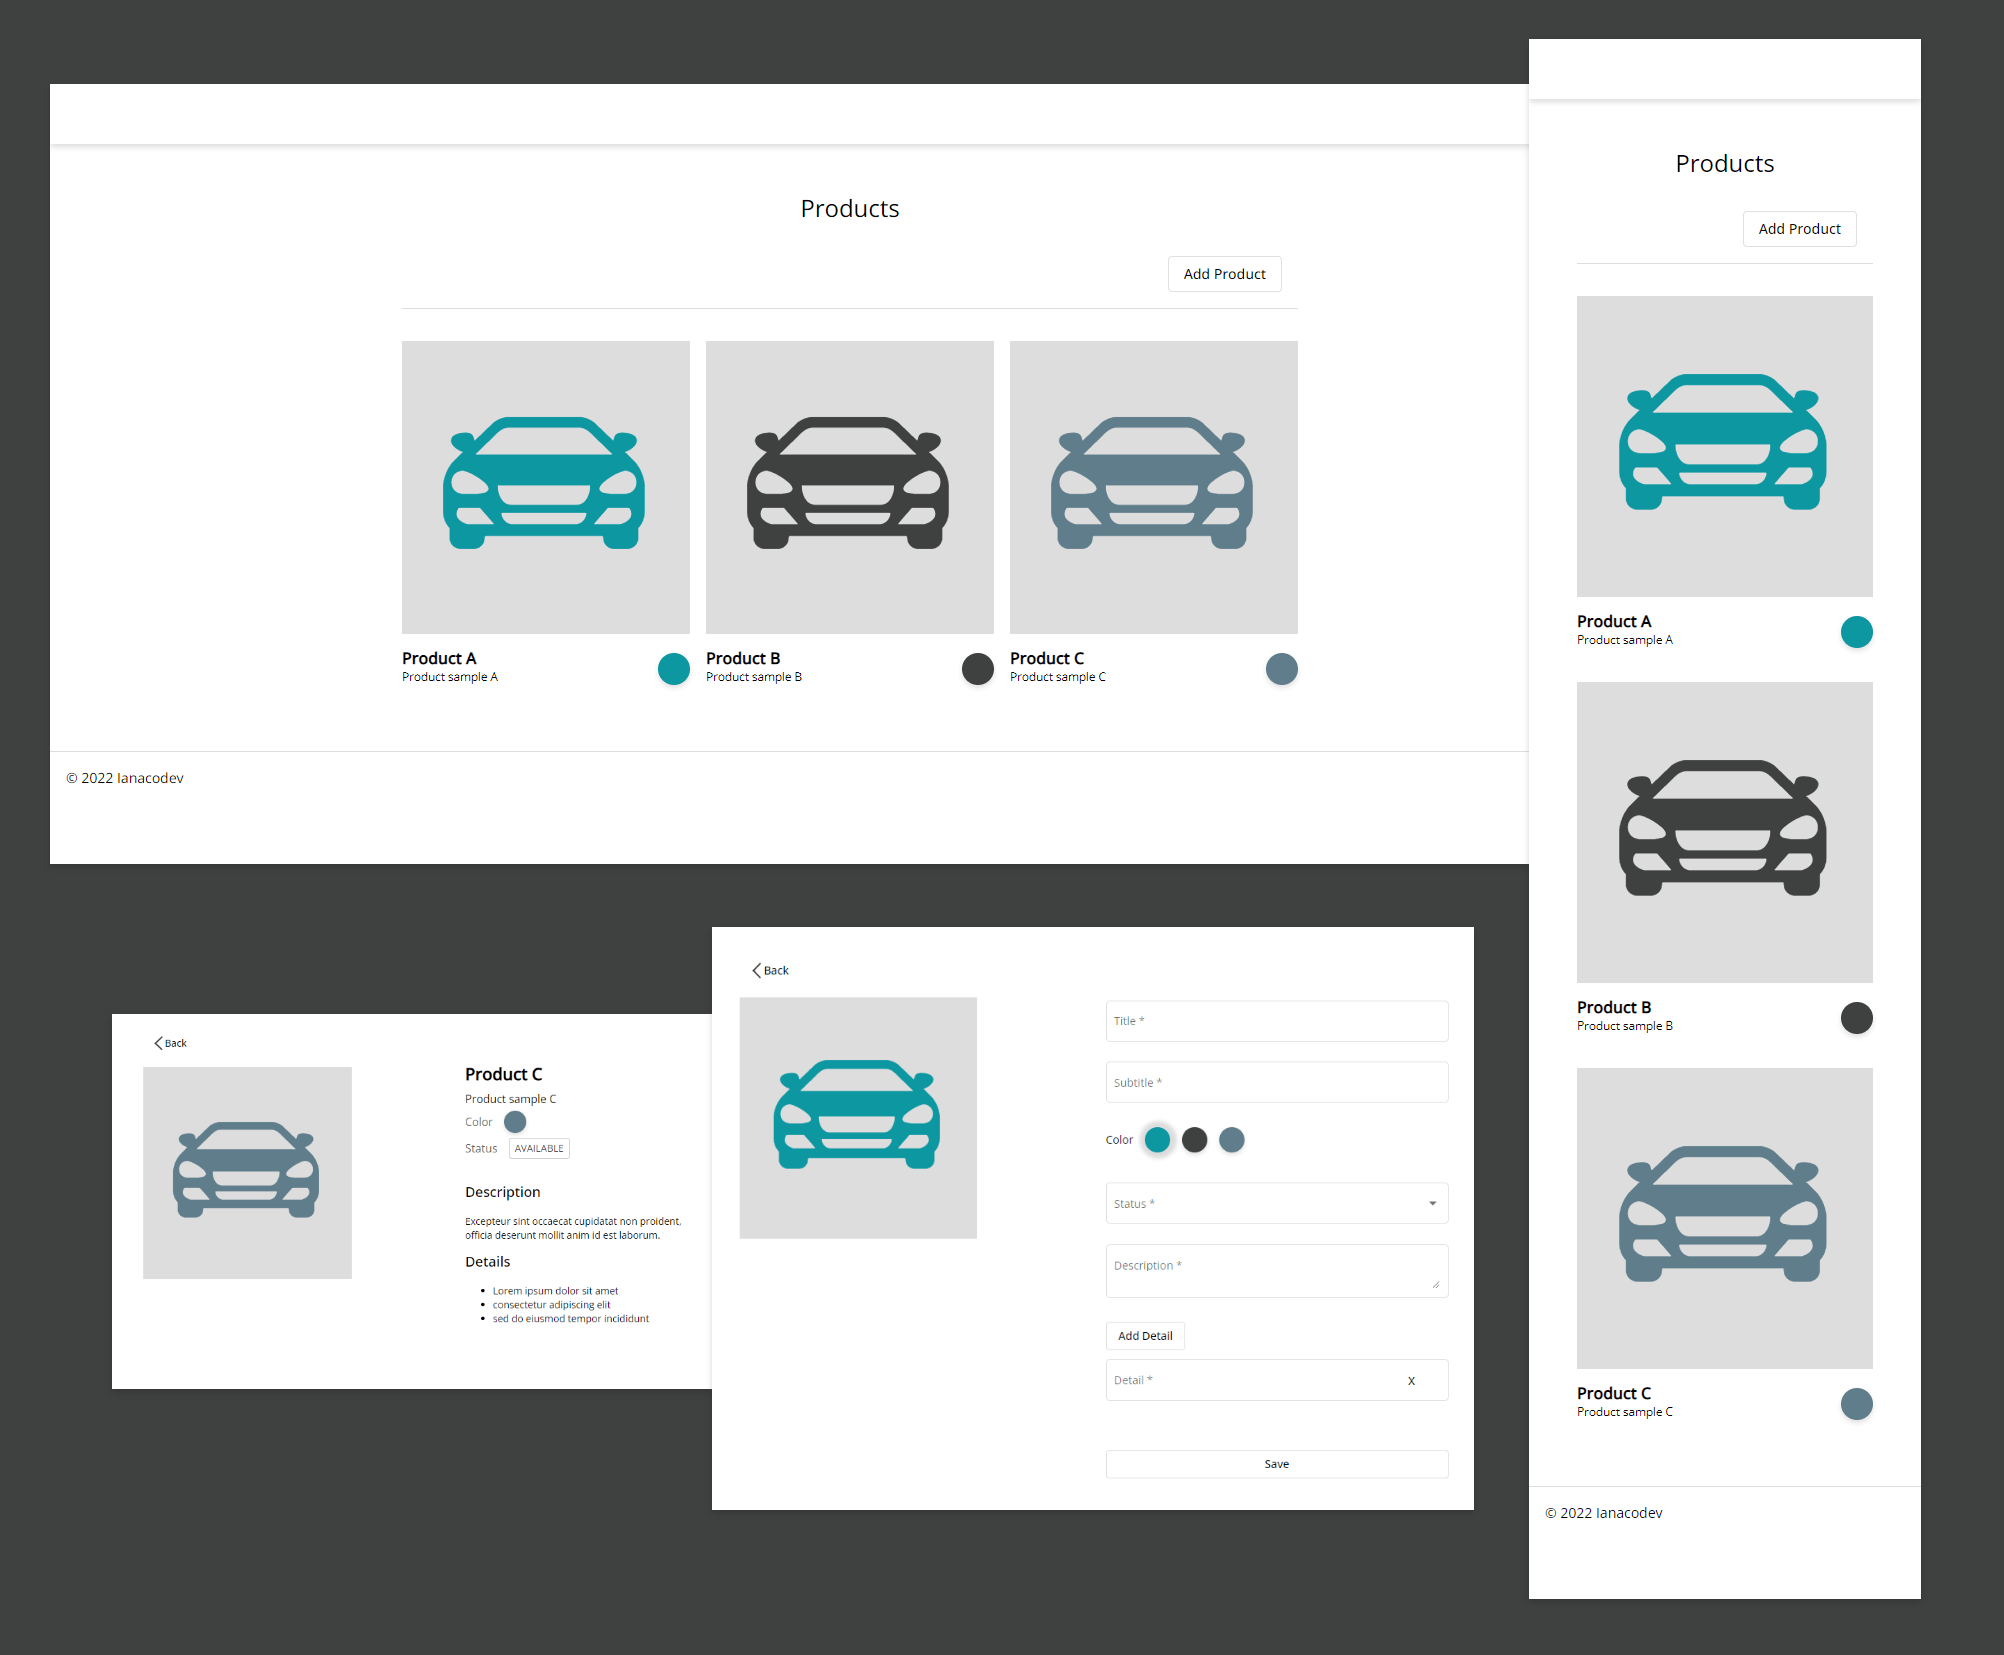
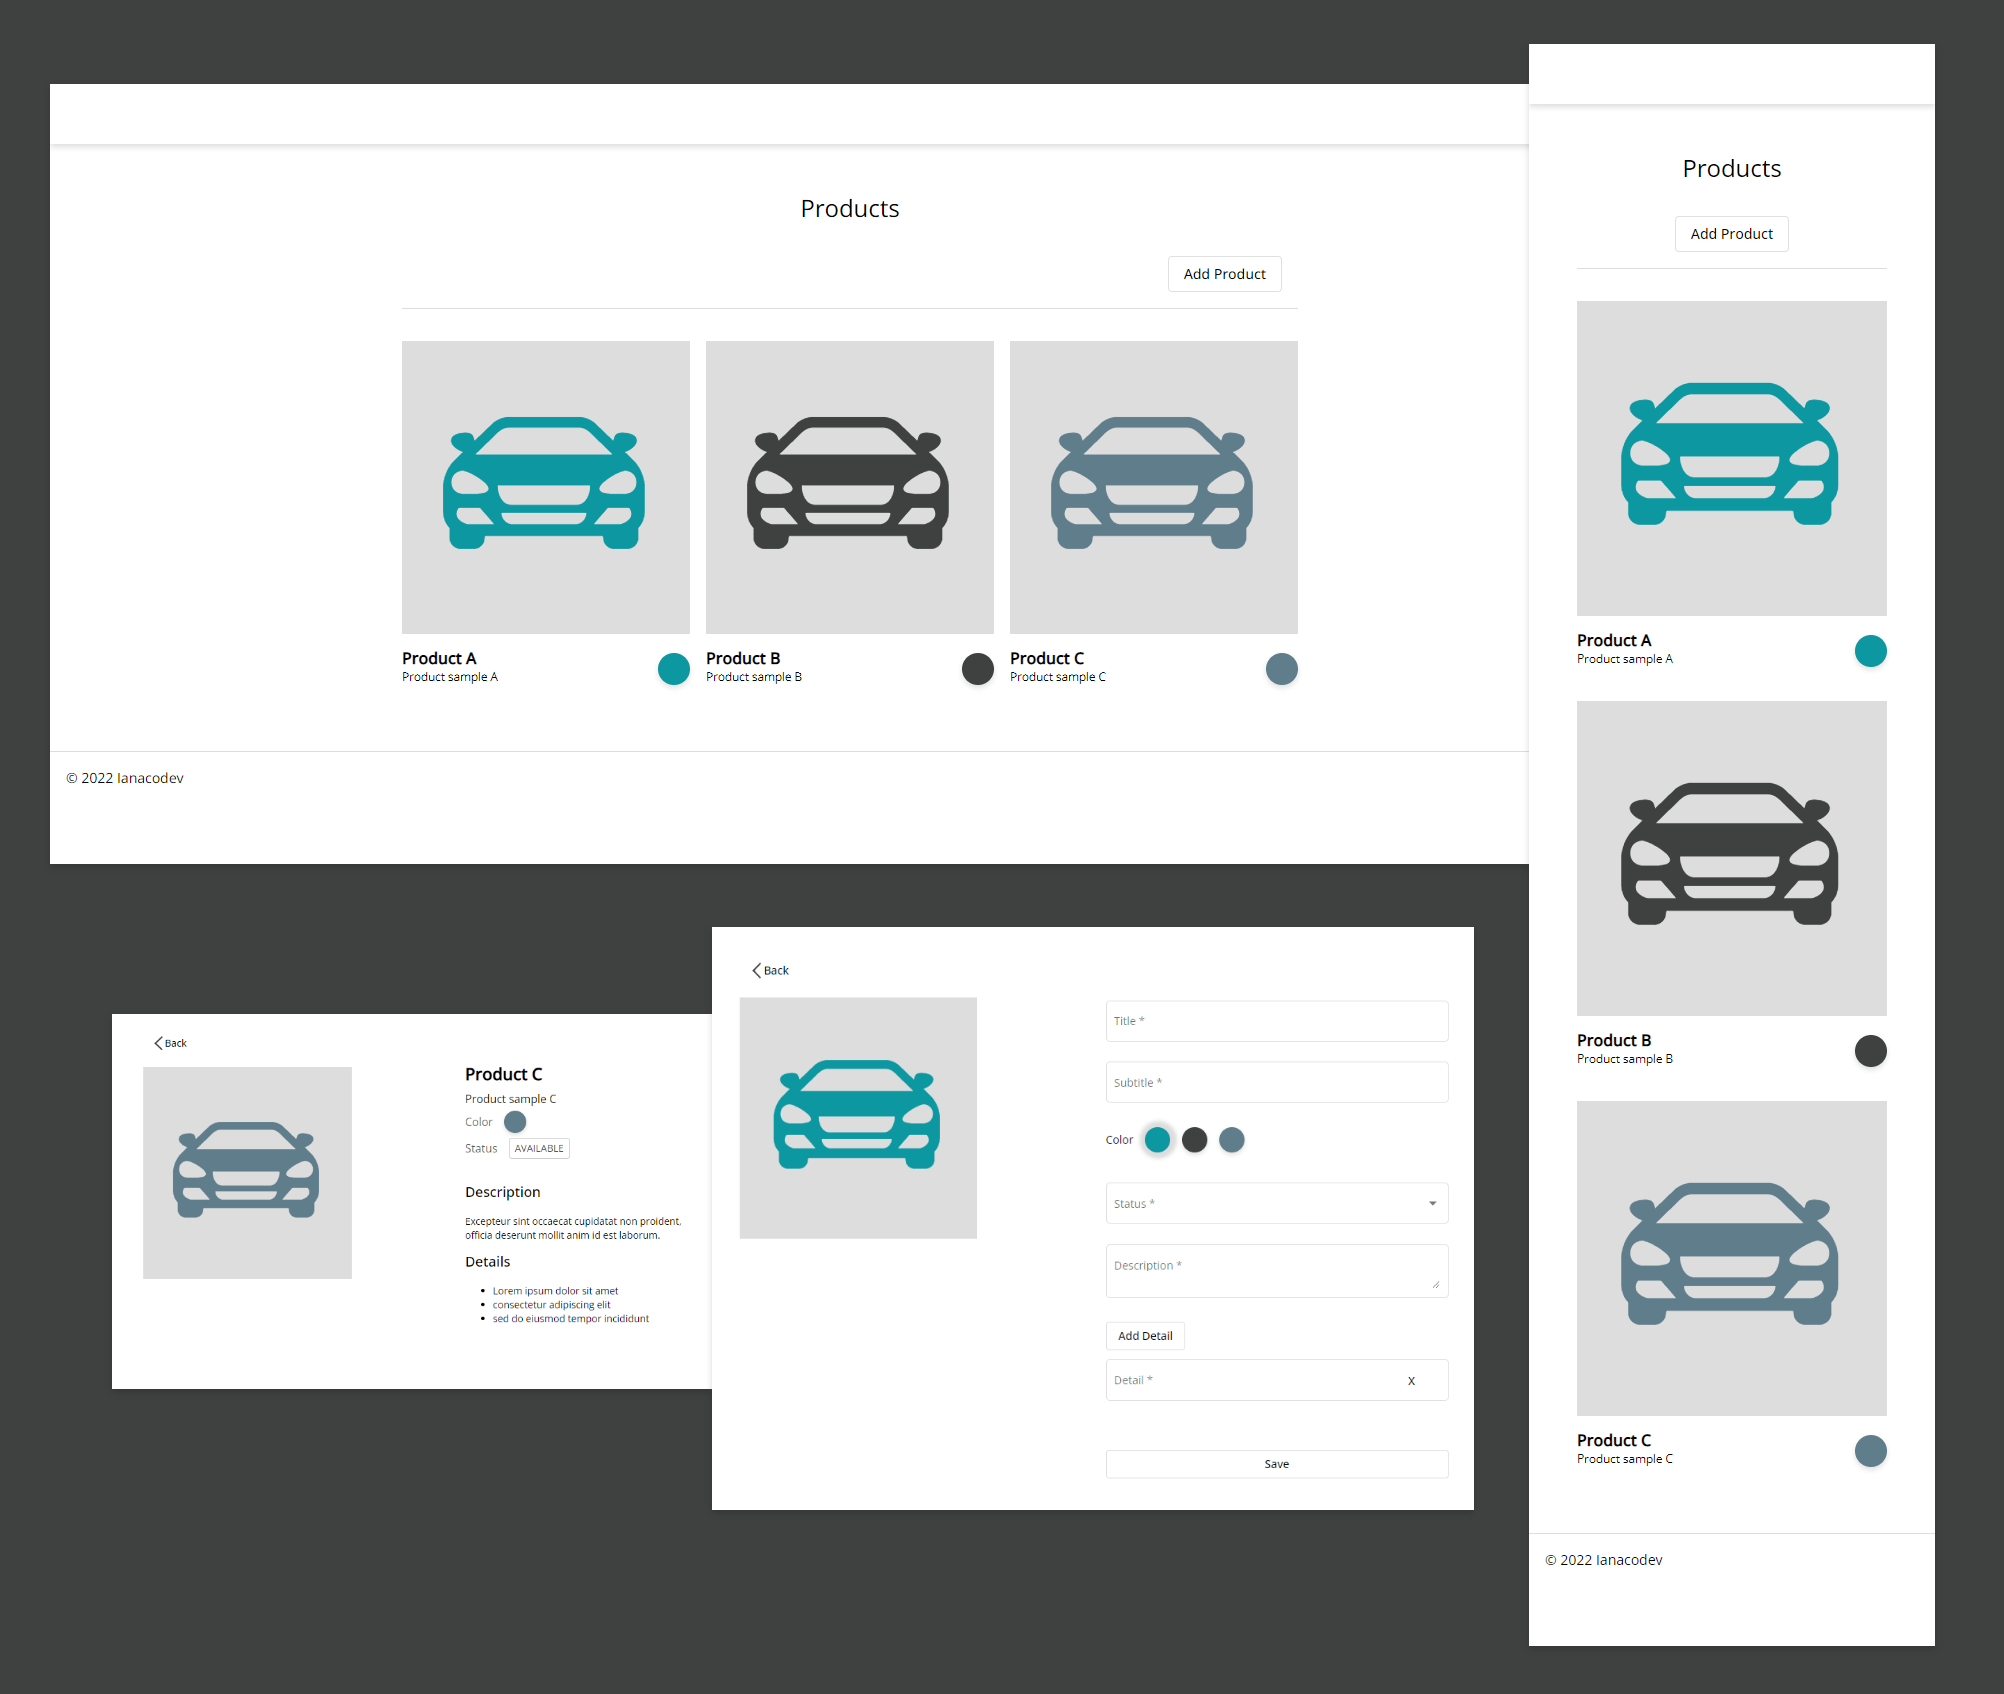
update responsive button

diff --git a/src/app/products/components/products-header/products-header.component.html b/src/app/products/components/products-header/products-header.component.html
@@ -2,6 +2,7 @@
   class="products-header"
   fxLayout="row"
   fxLayoutAlign="space-between center"
+  fxLayoutAlign.xs="center center"
 >
   <div class="products-header__panel products-header__panel--left"></div>
   <div class="products-header__panel products-header__panel--right">

diff --git a/src/app/products/components/products-header/products-header.component.scss b/src/app/products/components/products-header/products-header.component.scss
@@ -3,8 +3,5 @@
 .products-header {
   border-bottom: 0.063rem solid map-get(color.$windy-palette, 500);
   margin-bottom: 2rem;
-
-  &__panel {
-    padding: 1rem;
-  }
+  padding: 1rem;
 }
